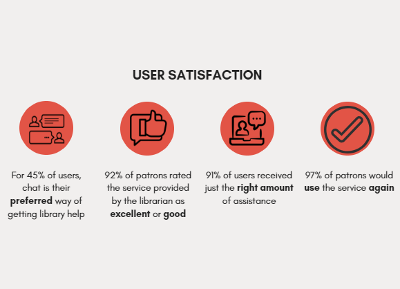
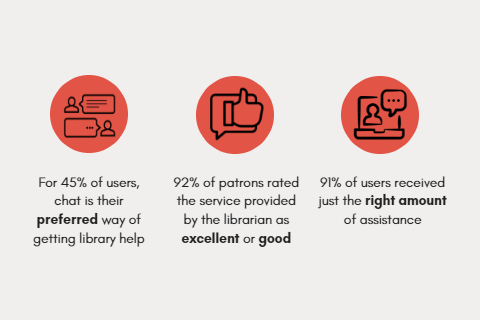
updated stats images, css improvements, content translations

Changed region(s): [[0.0, 0.218, 0.99, 0.7785]]

diff --git a/static/css/custom.css b/static/css/custom.css
@@ -106,33 +106,55 @@ fieldset[disabled] .btn-xl.active {
 }
 
 .navbar-brand {
-	padding: 0px 15px;
+    padding: 0px 15px;
 }
 
 .navbar-brand img {
-	width: 75px;
+    width: 75px;
     height: auto;
-	opacity: 0;
+    opacity: 0;
 }
 
-@-webkit-keyframes fadeIn { from { opacity:0; } to { opacity:1; } }
-@-moz-keyframes fadeIn { from { opacity:0; } to { opacity:1; } }
-@keyframes fadeIn { from { opacity:0; } to { opacity:1; } }
+@-webkit-keyframes fadeIn {
+    from {
+        opacity: 0;
+    }
+    to {
+        opacity: 1;
+    }
+}
+
+@-moz-keyframes fadeIn {
+    from {
+        opacity: 0;
+    }
+    to {
+        opacity: 1;
+    }
+}
+
+@keyframes fadeIn {
+    from {
+        opacity: 0;
+    }
+    to {
+        opacity: 1;
+    }
+}
+
 .navbar-shrink img {
-
-	/* make things invisible upon start */
-	-webkit-animation:fadeIn 1;  /* call our keyframe named fadeIn, use animattion ease-in and repeat it only 1 time */
-	-moz-animation:fadeIn 1;
-	animation:fadeIn 1;
-
-	-webkit-animation-fill-mode:forwards;  /* this makes sure that after animation is done we remain at the last keyframe value (opacity: 1)*/
-	-moz-animation-fill-mode:forwards;
-	animation-fill-mode:forwards;
-
-	-webkit-animation-duration:1s;
-	-moz-animation-duration:1s;
-	animation-duration:1s;
-
+    /* make things invisible upon start */
+    -webkit-animation: fadeIn 1;
+    /* call our keyframe named fadeIn, use animattion ease-in and repeat it only 1 time */
+    -moz-animation: fadeIn 1;
+    animation: fadeIn 1;
+    -webkit-animation-fill-mode: forwards;
+    /* this makes sure that after animation is done we remain at the last keyframe value (opacity: 1)*/
+    -moz-animation-fill-mode: forwards;
+    animation-fill-mode: forwards;
+    -webkit-animation-duration: 1s;
+    -moz-animation-duration: 1s;
+    animation-duration: 1s;
 }
 
 .navbar-default .navbar-brand:hover,
@@ -153,7 +175,7 @@ fieldset[disabled] .btn-xl.active {
 }
 
 .navbar-default .nav li a {
-	height: 100px;
+    height: 100px;
     padding-top: 40px;
     font-weight: 600;
     color: #000;
@@ -180,23 +202,21 @@ section#headtext {
 .headtext {
     font-size: 21px;
     text-align: left;
-    font-family: "Raleway","Helvetica Neue",Helvetica,Arial,sans-serif;
+    font-family: "Raleway", "Helvetica Neue", Helvetica, Arial, sans-serif;
     font-weight: 400;
 }
 
 .ocul img {
-	width: 300px;
+    width: 300px;
 }
 
 @media(min-width:768px) {
     .navbar-default .navbar-brand {
         padding-top: 10px;
     }
-
     .navbar-default .navbar-nav>.active>a {
         border-radius: 0px;
     }
-
     .navbar-default.navbar-shrink {
         padding: 0;
         height: 100px;
@@ -205,62 +225,52 @@ section#headtext {
 }
 
 /* Change breakpoint for navbar collapse */
+
 @media(max-width:991px) {
     .navbar-header {
         float: none;
     }
-
-    .navbar-left,.navbar-right {
+    .navbar-left,
+    .navbar-right {
         float: none !important;
     }
-
     .navbar-toggle {
         display: block;
     }
-
     .navbar-collapse {
         border-top: 1px solid transparent;
-        box-shadow: inset 0 1px 0 rgba(255,255,255,0.1);
+        box-shadow: inset 0 1px 0 rgba(255, 255, 255, 0.1);
     }
-
     .navbar-fixed-top {
         top: 0;
         border-width: 0 0 1px;
     }
-
     .navbar-collapse.collapse {
-        display: none!important;
+        display: none !important;
     }
-
     .navbar-nav {
-        float: none!important;
+        float: none !important;
         margin-top: 7.5px;
     }
-
     .navbar-nav>li {
         float: none;
     }
-
     .navbar-nav>li>a {
         padding-top: 10px;
         padding-bottom: 10px;
     }
-
-    .collapse.in{
+    .collapse.in {
         display: block !important;
     }
-
     .navbar-default {
         border-color: transparent;
         background-color: #ececec;
         padding: 0;
         height: auto !important;
     }
-
     .navbar-collapse.in {
         overflow-y: auto !important;
     }
-
     .navbar .container {
         padding-right: 15px;
         padding-left: 15px;
@@ -268,20 +278,25 @@ section#headtext {
         margin-left: auto;
         width: 100%;
     }
-
     .navbar-default .navbar-brand {
         padding-top: 0px;
     }
-
     .navbar-brand img {
         width: 45px;
         margin: 10px;
     }
 }
 
-@media(min-width:992px) {
+@media(min-width:1200px) {
     .navbar-brand>img {
         margin: 20px;
+    }
+}
+
+@media(max-width:1199px) {
+    .navbar-brand>img {
+        margin: 15px -15px;
+        padding: 5px;
     }
 }
 
@@ -292,21 +307,22 @@ header {
 }
 
 header .intro-text .intro-lead-in {
-    margin-top: 45px;
-	margin-bottom: 25px;
-    font-family: "Raleway","Helvetica Neue",Helvetica,Arial,sans-serif;
+    margin-top: 35px;
+    margin-bottom: 25px;
+    font-family: "Raleway", "Helvetica Neue", Helvetica, Arial, sans-serif;
     font-size: 54px;
- 	font-weight: 100;
+    font-weight: 100;
     line-height: 50px;
     font-style: inherit;
 }
 
 header .intro-text .intro-heading {
-    margin-bottom: 50px;
-    font-family: "Raleway","Helvetica Neue",Helvetica,Arial,sans-serif;
-    font-size: 65px;
+    margin-bottom: 45px;
+    font-family: "Raleway", "Helvetica Neue", Helvetica, Arial, sans-serif;
+    font-size: 60px;
     font-weight: 800;
     line-height: 75px;
+    max-width: 95%;
 }
 
 @media (min-width: 768px) {
@@ -320,75 +336,62 @@ header .intro-text .intro-heading {
     section {
         padding: 150px 0;
     }
-
     header .intro-text .intro-lead-in {
-		font-size: 52px;
-		line-height: 45px;
-	}
-
-	header .intro-text .intro-heading {
-		font-size: 55px;
-		line-height: 50px;
-	}
-
-	.navbar-right {
-	    float: left!important;
-	}
-
-	.ocul {
-		margin-bottom: 25px;
-	}
-
-	.navbar-brand img {
-	    width: 45px;
+        font-size: 52px;
+        line-height: 45px;
+    }
+    header .intro-text .intro-heading {
+        font-size: 55px;
+        line-height: 50px;
+    }
+    .navbar-right {
+        float: left !important;
+    }
+    .ocul {
+        margin-bottom: 25px;
+    }
+    .navbar-brand img {
+        width: 45px;
         margin: 0;
-	}
+    }
 }
+
 @media(max-width:568px) {
     header .intro-text {
         padding-top: 50px;
         padding-bottom: 50px;
     }
-
     header .intro-text img {
-       display: none;
+        display: none;
     }
-
-	.navbar-brand img {
-	    width: 45px;
-	    opacity: 1;
+    .navbar-brand img {
+        width: 45px;
+        opacity: 1;
         margin-top: 0px;
-	}
-
-	.fade-in {
-		opacity: 1;
-	}
-
+    }
+    .fade-in {
+        opacity: 1;
+    }
     section {
         padding: 150px 0;
     }
-
     header .intro-text .intro-lead-in {
-		font-size: 24px;
-		line-height: 45px;
-	}
-
-	header .intro-text .intro-heading {
-		font-size: 25px;
-		line-height: 22px;
-	}
-
-	.navbar-right {
-	    float: left!important;
-	}
-
-	.ocul {
-		margin-bottom:25px;
-	}
-
-	.navbar-shrink img {
-		animation:none;
-	}
+        font-size: 24px;
+        line-height: 45px;
+    }
+    header .intro-text .intro-heading {
+        font-size: 25px;
+        line-height: 22px;
+    }
+    .navbar-right {
+        float: left !important;
+    }
+    .ocul {
+        margin-bottom: 25px;
+    }
+    .navbar-shrink img {
+        animation: none;
+    }
 }
 
 #portfolio .portfolio-item .portfolio-link .portfolio-hover {
@@ -415,8 +418,8 @@ header .intro-text .intro-heading {
     margin-top: 25px;
 }
 
-.pricing > p,
-.pricing > ul {
+.pricing>p,
+.pricing>ul {
     font-size: 16px;
 }
 
@@ -427,17 +430,17 @@ header .intro-text .intro-heading {
 
 th {
     font-size: 18px;
-    font-family: Montserrat,"Helvetica Neue",Helvetica,Arial,sans-serif;
+    font-family: Montserrat, "Helvetica Neue", Helvetica, Arial, sans-serif;
 }
 
 td {
     font-size: 16px;
-    font-family: "Roboto Slab","Helvetica Neue",Helvetica,Arial,sans-serif;
+    font-family: "Roboto Slab", "Helvetica Neue", Helvetica, Arial, sans-serif;
 }
 
 .faq-question {
     font-size: 18px;
-    font-family: Montserrat,"Helvetica Neue",Helvetica,Arial,sans-serif;
+    font-family: Montserrat, "Helvetica Neue", Helvetica, Arial, sans-serif;
     padding-bottom: 10px;
     color: #b05539;
 }
